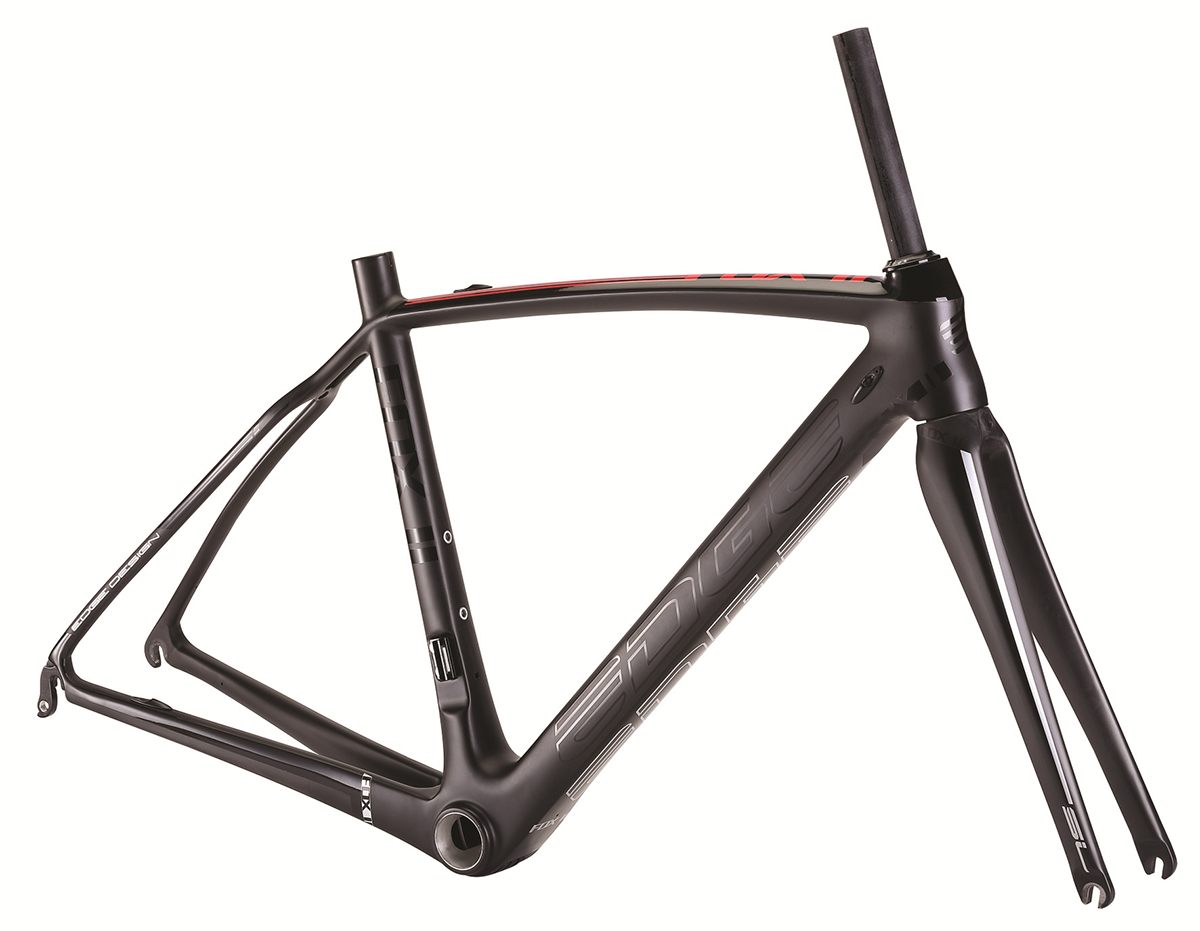
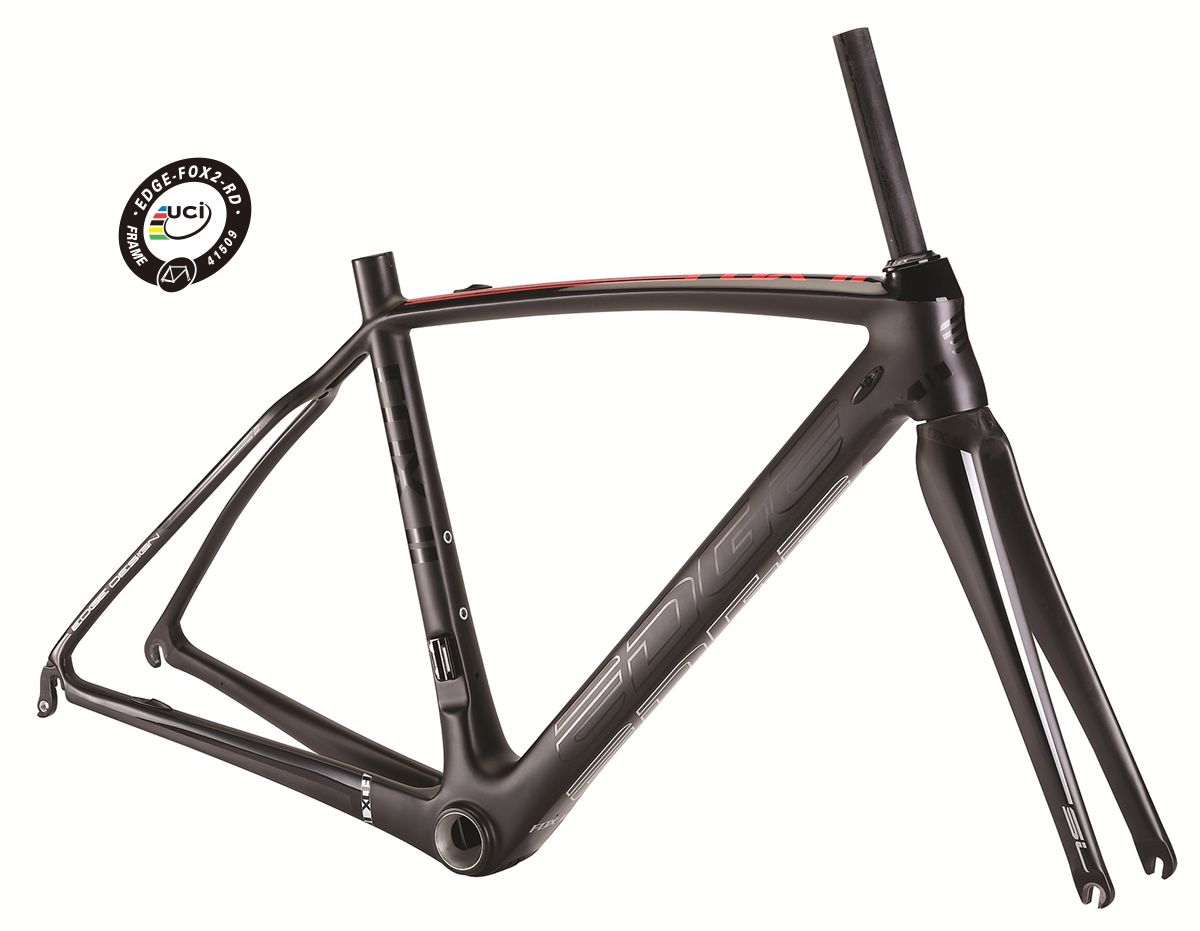
edit spec and added uci

Changed region(s): [[0.0925, 0.1557, 0.2158, 0.3115]]

diff --git a/Spec-GRAVELALU.html b/Spec-GRAVELALU.html
@@ -4,7 +4,7 @@ title: GRAVEL ALU Specifications
 description: Framesets road
 menu: ['framesets', 'road']
 permalink: 
-date: 2016/12/19
+date: 2017/03/07
 ---
 
 <section id="content" class="shortcode-item spec-table">
@@ -23,7 +23,7 @@ date: 2016/12/19
                     </tr>
                     <tr>
                         <th>Headtube</th>
-                        <td>1 1/8"- 1 1/2"</td>
+                        <td>48/57mm, 1 1/8"- 1 1/2"</td>
                     </tr>
                     <tr>
                         <th>Seatpost</th>

diff --git a/Spec-GRAVEL.html b/Spec-GRAVEL.html
@@ -4,7 +4,7 @@ title: GRAVEL Specifications
 description: Framesets road
 menu: ['framesets', 'road']
 permalink: 
-date: 2017/03/05
+date: 2017/03/07
 ---
 
 <section id="content" class="shortcode-item spec-table">
@@ -24,7 +24,7 @@ date: 2017/03/05
                     </tr>
                     <tr>
                         <th>Headtube</th>
-                        <td>1 1/8"- 1 1/2"</td>
+                        <td>48/57mm, 1 1/8"- 1 1/2"</td>
                     </tr>
                     <tr>
                         <th>Seatpost</th>

diff --git a/Spec-ALICANTE.html b/Spec-ALICANTE.html
@@ -23,7 +23,7 @@ date: 2017/03/03
                     </tr>
                     <tr>
                         <th>Headtube</th>
-                        <td>1 1/8"- 1 1/2"</td>
+                        <td>48/57mm, 1 1/8"- 1 1/2"</td>
                     </tr>
                     <tr>
                         <th>Seatpost</th>
